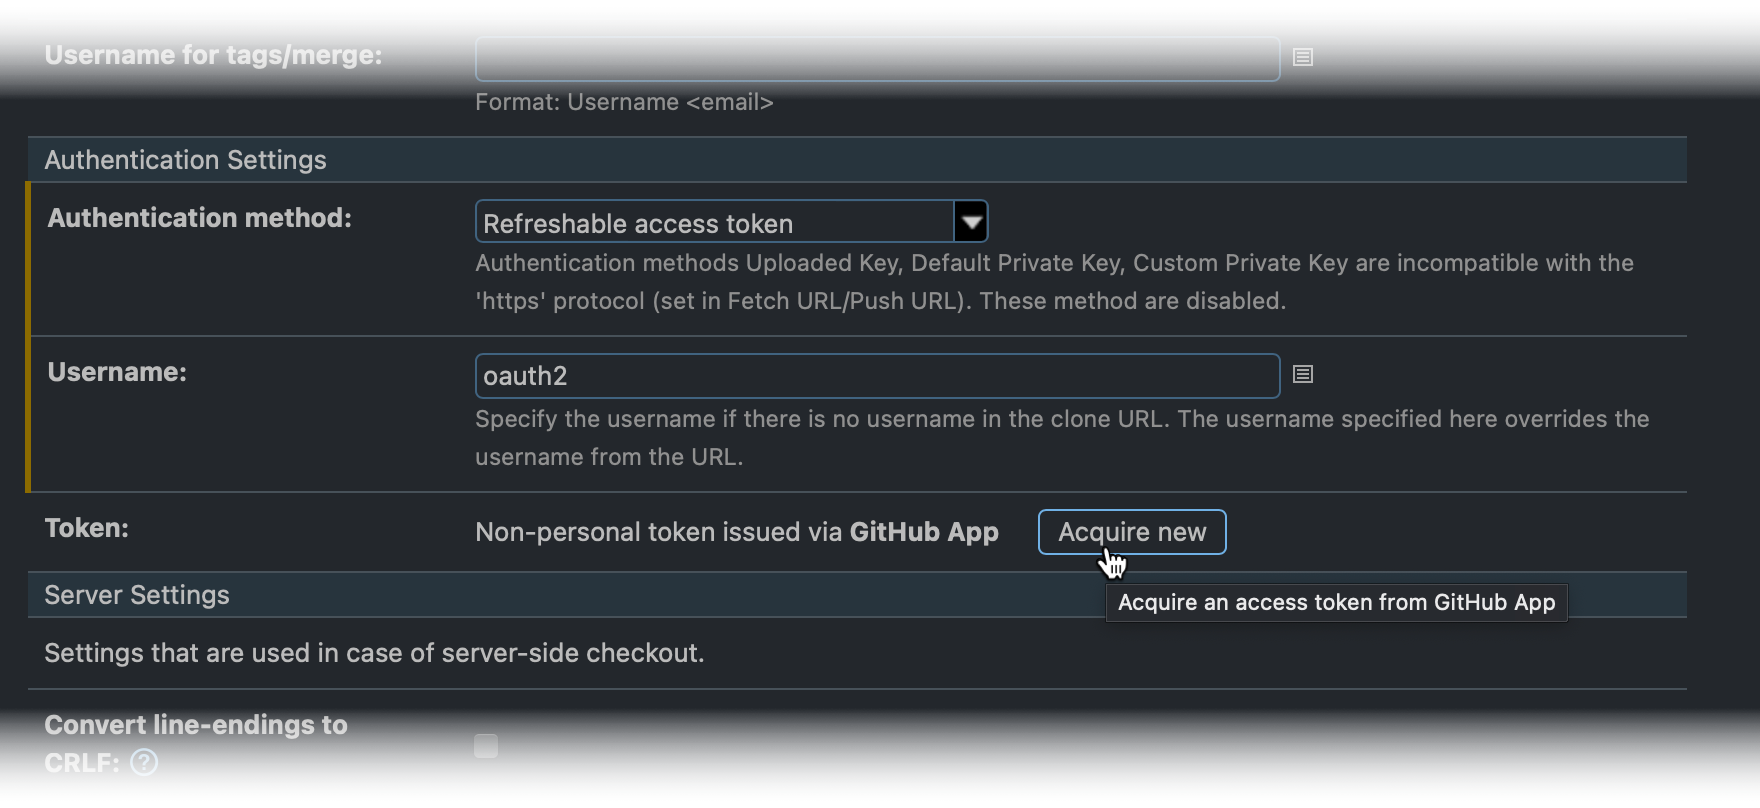
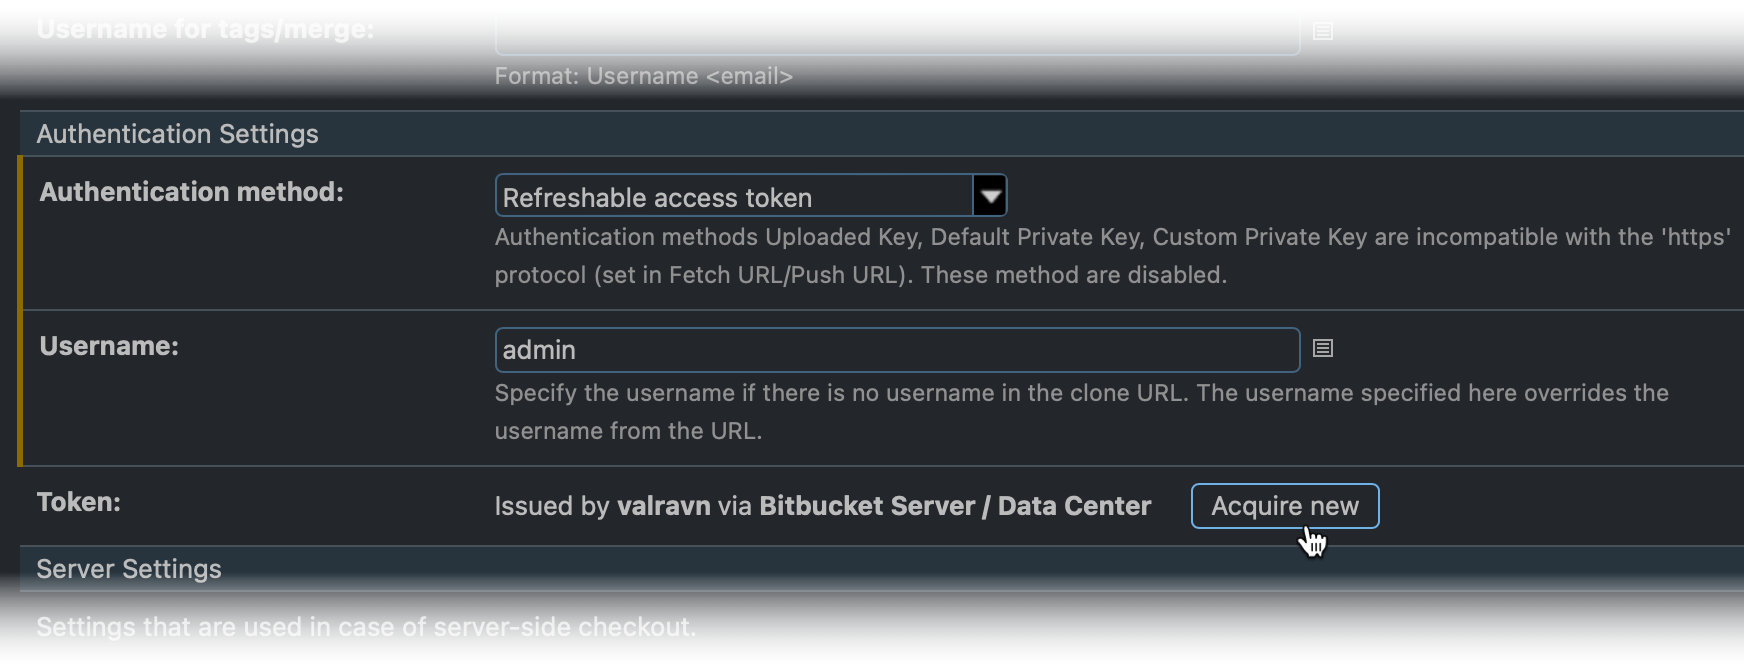
TW-80998 updates

Changed region(s): [[0.0, 0.0312, 1.0, 0.9688]]

diff --git a/topics/what-s-new-in-teamcity.md b/topics/what-s-new-in-teamcity.md
@@ -68,13 +68,13 @@ Starting with this release, TeamCity can work with GitHub and GitHub Enterprise 
 
 <img src="dk-add-GHApp-connection.png" alt="Create a GitHub App Connection" width="706"/>
 
-GitHub App connections allow you to check out GitHub.com and GitHub Enterprise repositories, share access tokens with [Commit Status Publisher](commit-status-publisher.md#GitHub) and [](pull-requests.md) build features, set up webhooks that GitHub uses to notify TeamCity about a repository change, and enable the related [authentication module](configuring-authentication-settings.md#GitHub).
+GitHub App connections allow you to check out GitHub.com and GitHub Enterprise repositories,<!--share access tokens with [Commit Status Publisher](commit-status-publisher.md#GitHub) and [](pull-requests.md) build features,--> set up webhooks that GitHub uses to notify TeamCity about a repository change, and enable the related [authentication module](configuring-authentication-settings.md#GitHub).
 
 Learn more: [Configuring Connections](configuring-connections.md#GitHub).
 
 ### Reissue Refreshable Tokens for VCS Roots
 
-If a VCS root is configured via TeamCity [connections](configuring-connections.md) to access Git repositories hosted in Bitbucket Server, Bitbucket Cloud, GitHub (via [GitHub Apps](#Connect+to+GitHub+via+GitHub+Apps) connection) or GitLab, the "Authentication Settings" section of this root's settings now displays the **Acquire new** button. This button allows you to instantly replace the refreshable token used by the VCS Root with a new token issued for the current user.
+If a VCS root is configured via TeamCity [connections](configuring-connections.md) to access Git repositories hosted in Bitbucket Server, Bitbucket Cloud or GitLab, the "Authentication Settings" section of this root's settings now displays the **Acquire new** button. This button allows you to instantly replace the refreshable token used by the VCS Root with a new token issued for the current user.
 
 <img src="dk-refreshableGitToken.png" width="706" alt="Reissue Token" />
 

diff --git a/topics/commit-status-publisher.md b/topics/commit-status-publisher.md
@@ -38,7 +38,7 @@ For connection, select one of the available authentication types:
   
   <img src="dk-CSP-GitHubToken.png" width="708" alt="Acquire access token for GitHub"/>
   
-* **GitHub App access token** — if this project or any of the parent projects have a valid [GitHub App connection](configuring-connections.md#GitHub), the Commit Status Publisher can use tokens issued through this connection. The **Acquire new** button allows you to instantly re-issue the access token.
+<!--* **GitHub App access token** — if this project or any of the parent projects have a valid [GitHub App connection](configuring-connections.md#GitHub), the Commit Status Publisher can use tokens issued through this connection. The **Acquire new** button allows you to instantly re-issue the access token.-->
 
 * **Use VCS root(s) credentials** — choose this option to parent VCS root(s) share access tokens with the Commit Status Publisher. Note that credentials sharing is not available if a VCS root uses anonymous authentication, fetches data via an SSH URL, or authenticates using a regular user password.
 

diff --git a/topics/git.md b/topics/git.md
@@ -268,7 +268,7 @@ The **Token** field displays information about the user who obtained the token a
 
 You can specify a **username** here if there is no username in the clone URL (the username specified here overrides the username from the URL).
 
-For Bitbucket Server, Bitbucket Cloud, GitHub (when configured via [GitHub Apps](configuring-connections.md#GitHub)) and GitLab you can click the *Acquire new* button to instantly reissue the token used by the VCS root with a token issued for the current user.
+For Bitbucket Server, Bitbucket Cloud and GitLab you can click the *Acquire new* button to instantly reissue the token used by the VCS root with a token issued for the current user.
 
 <img src="dk-refreshableGitToken.png" width="706" alt="Reissue Token" />
 

diff --git a/topics/configuring-connections.md b/topics/configuring-connections.md
@@ -159,6 +159,14 @@ To create a TeamCity connection that utilizes a GitHub App:
 <li>Upload the private key sent by GitHub.</li>
 
 <li>Click <b>Save</b> to save your new connection.</li>
+
+<br/>
+
+<note>
+
+TeamCity asks you to log in to GitHub before you can create a project from a GitHub App connection. Refreshable access tokens issued via this connection have the same permissions as your GitHub user. In case you have insufficient permissions, certain TeamCity functionality can be unavailable. For instance, if you have only repository "read" permissions for the given repository, you won't be able to set up the <a href="commit-status-publisher.md">Commit Status Publisher</a> feature with "Use VCS settings" authorization mode.
+
+</note>
 </ol>
 
 </dd>
